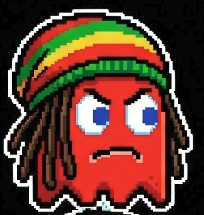
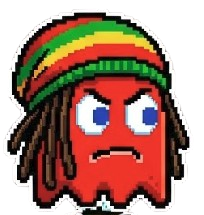
save

diff --git a/src/engine/scenes/scene_running.py b/src/engine/scenes/scene_running.py
@@ -130,7 +130,7 @@ class RunningScene(Scene):
             ).convert_alpha()
 
     def _scale_ghost_images(self) -> None:
-        size = (self.cell_size, self.cell_size)
+        size = (self.cell_size - 15, self.cell_size - 15)
         for ghost, image in self.ghost_sprites.items():
             self.ghost_images[ghost] = pygame.transform.smoothscale(
                 image, size
